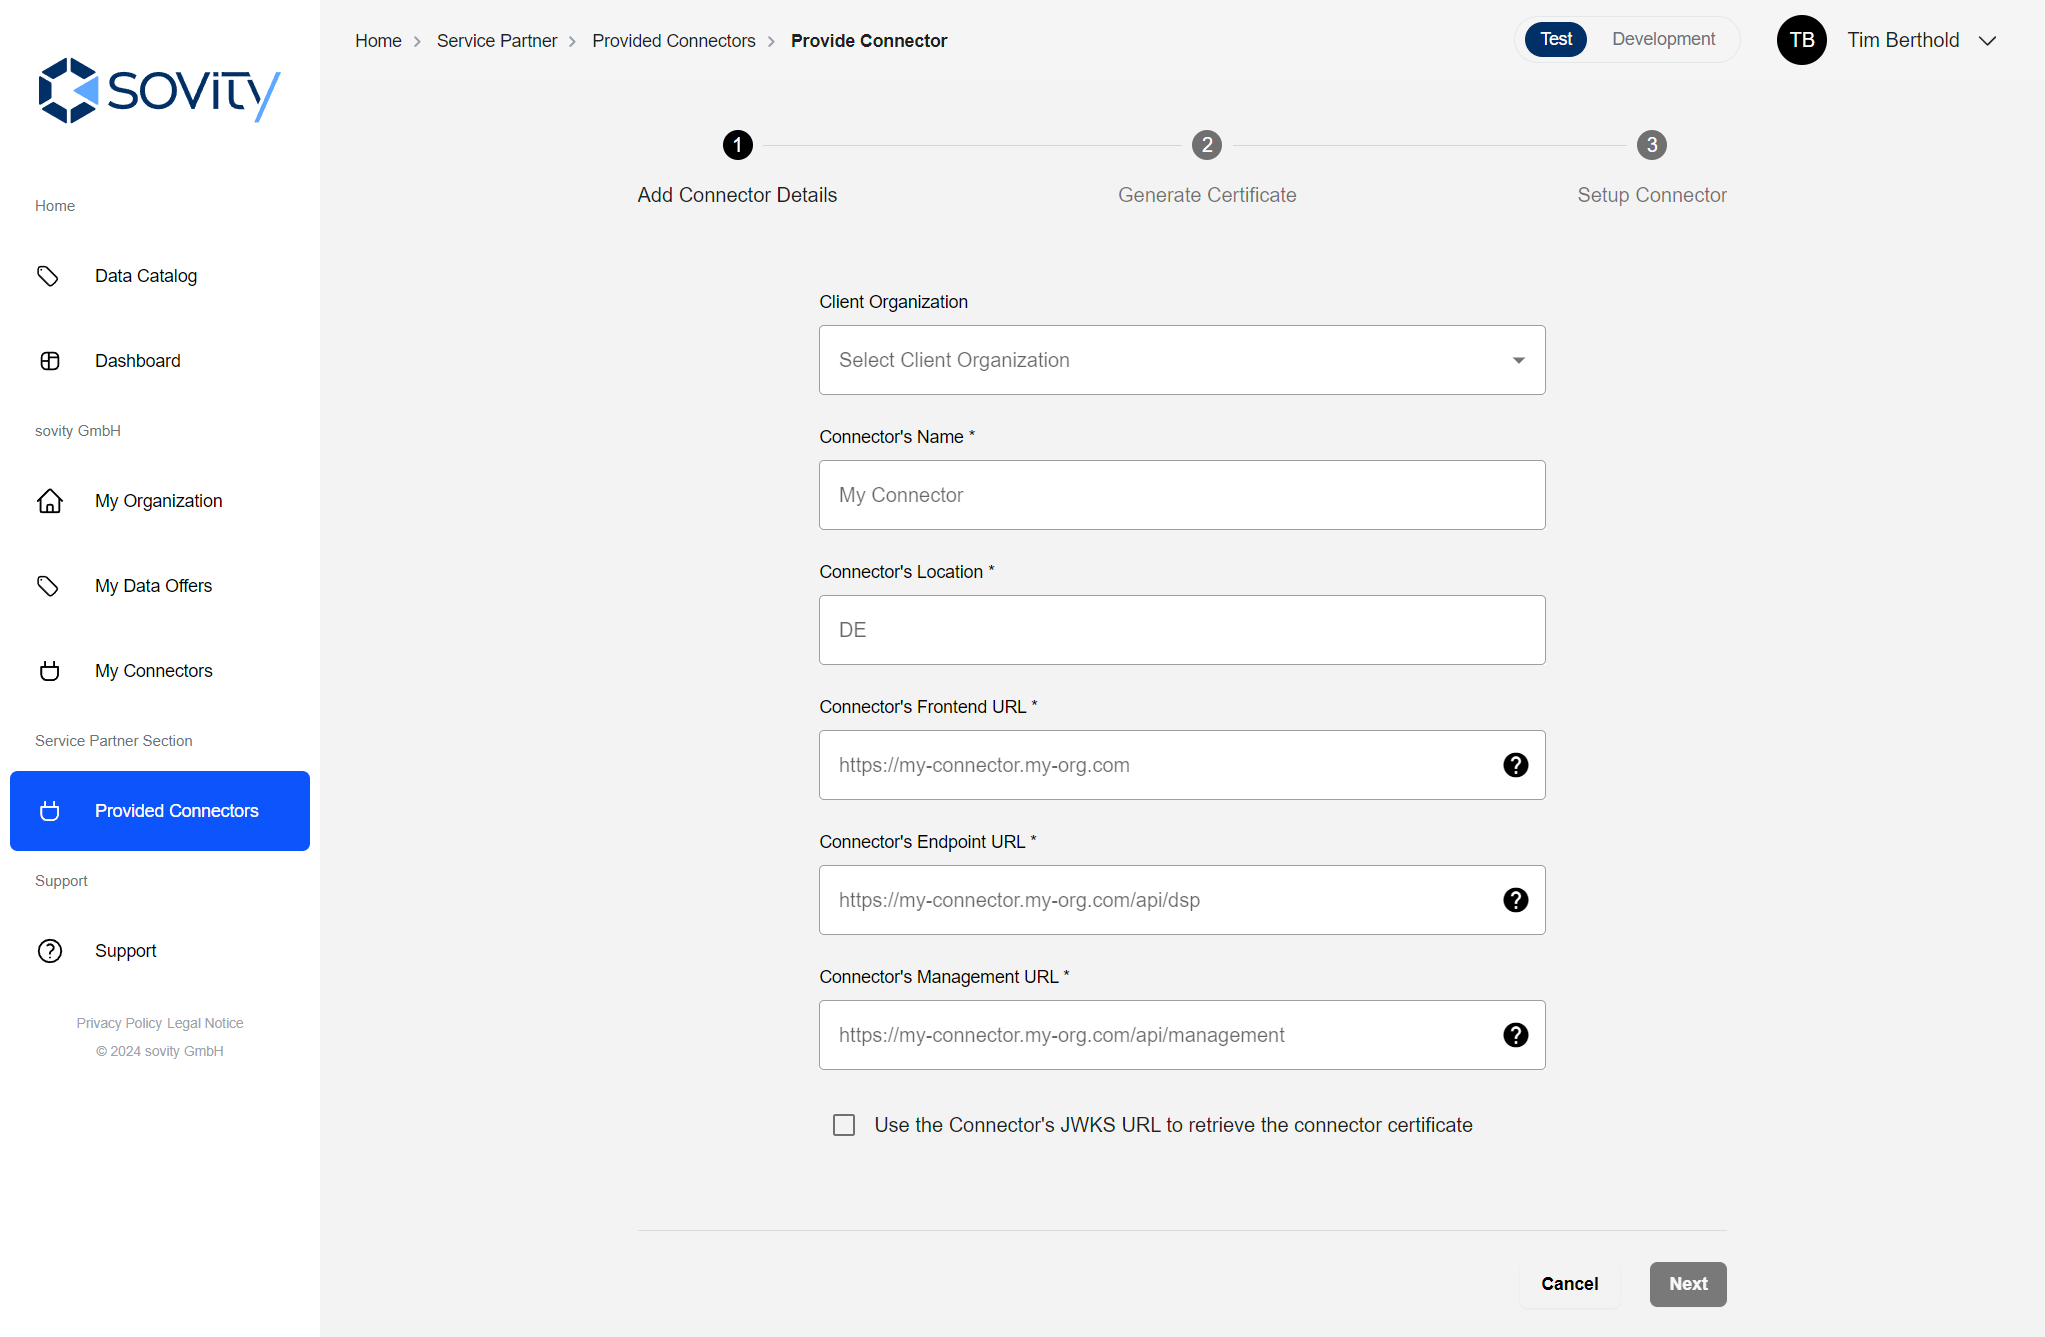
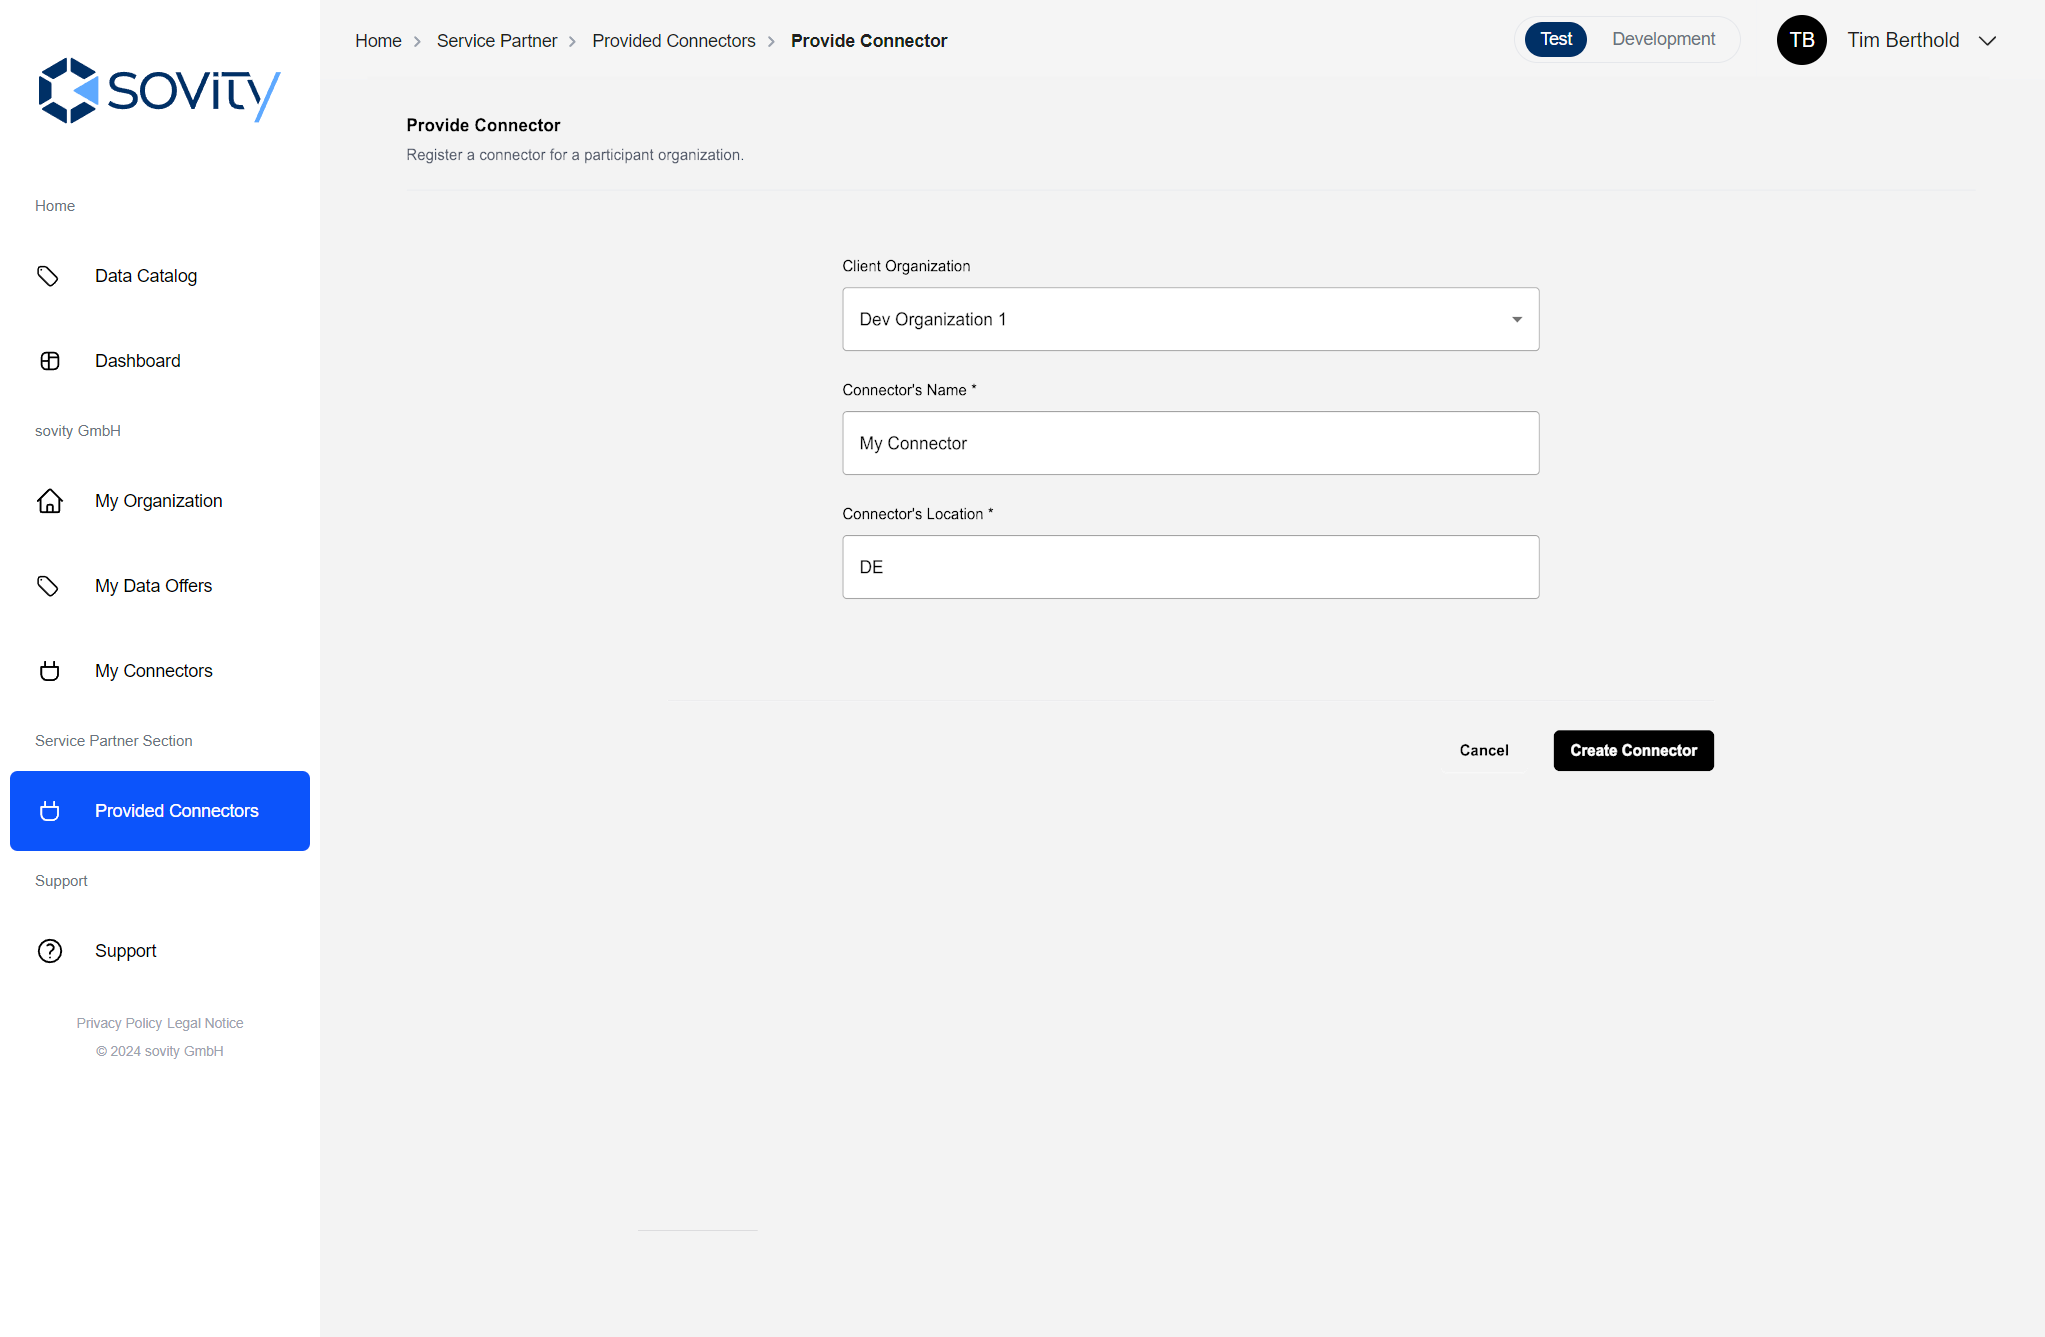
docs: copy gitbook content to main (#411)

diff --git a/docs/product/user-documentation/Manage Data Space components.md b/docs/product/user-documentation/Manage Data Space components.md
@@ -1,3 +1,7 @@
+---
+icon: user
+---
+
 # Manage the Data Space components
 
 Besides the Data Space Authority roles, there are two other application roles that are able to manage elements of the Data Space.
@@ -23,7 +27,11 @@ Currently, the Service Partner Admin role grants the following rights in additio
 
 #### 1. View a list of provided connectors
 
-As a Service Partner Admin a user is able to access the "Provided Connectors" page where all provided connectors are displayed.
+A Service Partner Admin is able to access the "Provided Connectors" page, where all provided connectors are displayed. On this page, connectors are categorized by their types. The types of connectors include:
+- Own: Connectors registered and maintained directly by the organization.
+- Provided: Connectors supplied by a third-party service partner.
+- CaaS: Connector as a Service - Managed connectors.
+- Configure Button: The Connector needs further configuration for being set up.
 
 ![provide-connector](images/provide-connectors-overview.png)
 
@@ -33,20 +41,15 @@ When clicking on the button "Provide Connector" in the upper right corner a mask
 
 ![provide-connector](images/provide-connector.png)
 
-To provide a connector in the Authority Portal all fields of the mask must be submitted. The process is identical to the registration of connectors for users without any application role but registers the connector for another organization who is named in the slightly changed registration mask. 
+To provide a connector in the Authority Portal all fields of the mask must be submitted.
+After clicking on the "Create Connector" the list of provided connectors appears, where an added connector can be found which has to be configured further at some point in time.
 
-You might generate the required certificate within the browser or alternatively via a Linux shell with `openssl` and `keytool` installed:
+![provide-connector](images/provide-connectors-list.png)
 
-```bash
-$ openssl req -x509 -newkey rsa:2048 -keyout key.pem -out connector-certificate.crt -nodes -days 1825
-$ openssl pkcs12 -export -in connector-certificate.crt -inkey key.pem -out connector-certificate.p12
-$ keytool -importkeystore -srckeystore connector-certificate.p12 -srcstoretype pkcs12 -destkeystore connector-certificate.jks
-```
-
-> [!TIP]  
-> By ticking the checkbox "Use the Connector's JWKS URL [...]", you can define a JWKS endpoint to automatically fetch the certificate from and thus skip the certificate step. sovity's CaaS (Connector-as-a-Service) are equipped with this functionality.
-
-After clicking on the register button the list of provided connectors appears, where the added connector can be found.
+By clicking in the list on "Configure", the additional data for the connector must be entered, such as the URL at which the frontend of the connector can be accessed.
+The most important entry  is the connector endpoint, the DSP-endpoint, so that the connector's offers can be searched and displayed in the authority portal, since the authority portal also crawls the connectors in the dataspace for available offers which the authority portal's crawler is allowed to access.
+The process of the further configuration guides you through the necessary steps and needed information to specify the URLs or enter valid information about the connector certificate.
+Please follow the steps in the dialog.
 
 #### 3. Assign Service Partner Admin role to users within own organization
 

diff --git a/docs/product/user-documentation/Authority Section.md b/docs/product/user-documentation/Authority Section.md
@@ -1,3 +1,7 @@
+---
+icon: user
+---
+
 # Authority Section
 
 ## Organization management
@@ -44,6 +48,19 @@ The process is as follows:
 
 Under "All Connectors", Authority Users and Admins can see all registered connectors of all organizations in the Authority Portal.
 Also, the connector details can be accessed from here.
+
+Additionally, the status of each connector is displayed, providing insights into their current operational state. Each Connector can have the following statuses:
+- Online: The connector is reachable and operational.
+- Offline: The connector is not reachable by the Authority Portal crawler.
+
+Connectors of type CAAS (Connector as a Service) can also support extended operational statuses. These additional statuses provide more granular insights into the state of Connector as a Service Connectors, reflecting their dynamic and managed nature.
+- Init: The connector is in the initialization process.
+- Provisioning: The connector is being set up and is not yet available for use.
+- Deprovisioning: The connector is being decommissioned or removed.
+- Error: An issue has occurred that requires attention.
+- Unknown: Connector has been deleted via other systems and no longer exists. 
+
+In rare cases, additional statuses may appear, reflecting specific scenarios or exceptions in the system's operation.
 
 ## Dashboard & Reporting
 

diff --git a/docs/product/user-documentation/faq.md b/docs/product/user-documentation/faq.md
@@ -1,0 +1,11 @@
+---
+icon: message-question
+---
+
+## Welcome to our Frequently Asked Questions (FAQ) collection!
+
+This section is designed to provide quick and clear answers to the most common queries we receive. Whether you're looking for information on our products or services or need help with troubleshooting, you'll find the answers here. If you can't find the answer to your question, don't hesitate to open a [dicussion](https://github.com/sovity/authority-portal/discussions).
+
+### How does the availability check for the connectors work?
+
+The connector online status is determined and set by the catalog crawler. If the crawler can fetch the catalog, it will set the connector to ONLINE, on a failure to OFFLINE. Keep in mind that the catalog crawler only crawls connectors in the same environment as the crawler itself.

diff --git a/docs/SUMMARY.md b/docs/SUMMARY.md
@@ -1,0 +1,14 @@
+# Table of contents
+
+* [Welcome](product/user-documentation/General%20Overview.md)
+* [FAQ](product/user-documentation/faq.md)
+
+## User Guide
+
+* [Manage Dataspace](product/user-documentation/Manage%20Data%20Space%20components.md)
+* [Authority Section](product/user-documentation/Authority%20Section.md)
+* [Administration and Support](product/user-documentation/Administration%20and%20Support.md)
+
+## Deployment
+
+* [Deployment Guide](deployment-guide/goals/production/README.md)

diff --git a/docs/product/user-documentation/General Overview.md b/docs/product/user-documentation/General Overview.md
@@ -1,3 +1,7 @@
+---
+icon: hand-wave
+---
+
 # General Overview
 
 This guide provides a general overview of the main sections and features of the portal, helping you navigate and understand the various components available.

diff --git a/docs/deployment-guide/goals/production/README.md b/docs/deployment-guide/goals/production/README.md
@@ -1,3 +1,7 @@
+---
+icon: square-dashed-circle-plus
+---
+
 Deploying the Authority Portal in Production
 ============
 

diff --git a/docs/product/user-documentation/Administration and Support.md b/docs/product/user-documentation/Administration and Support.md
@@ -1,3 +1,7 @@
+---
+icon: user
+---
+
 # Administration and Support
 
 ## Profile & Roles
